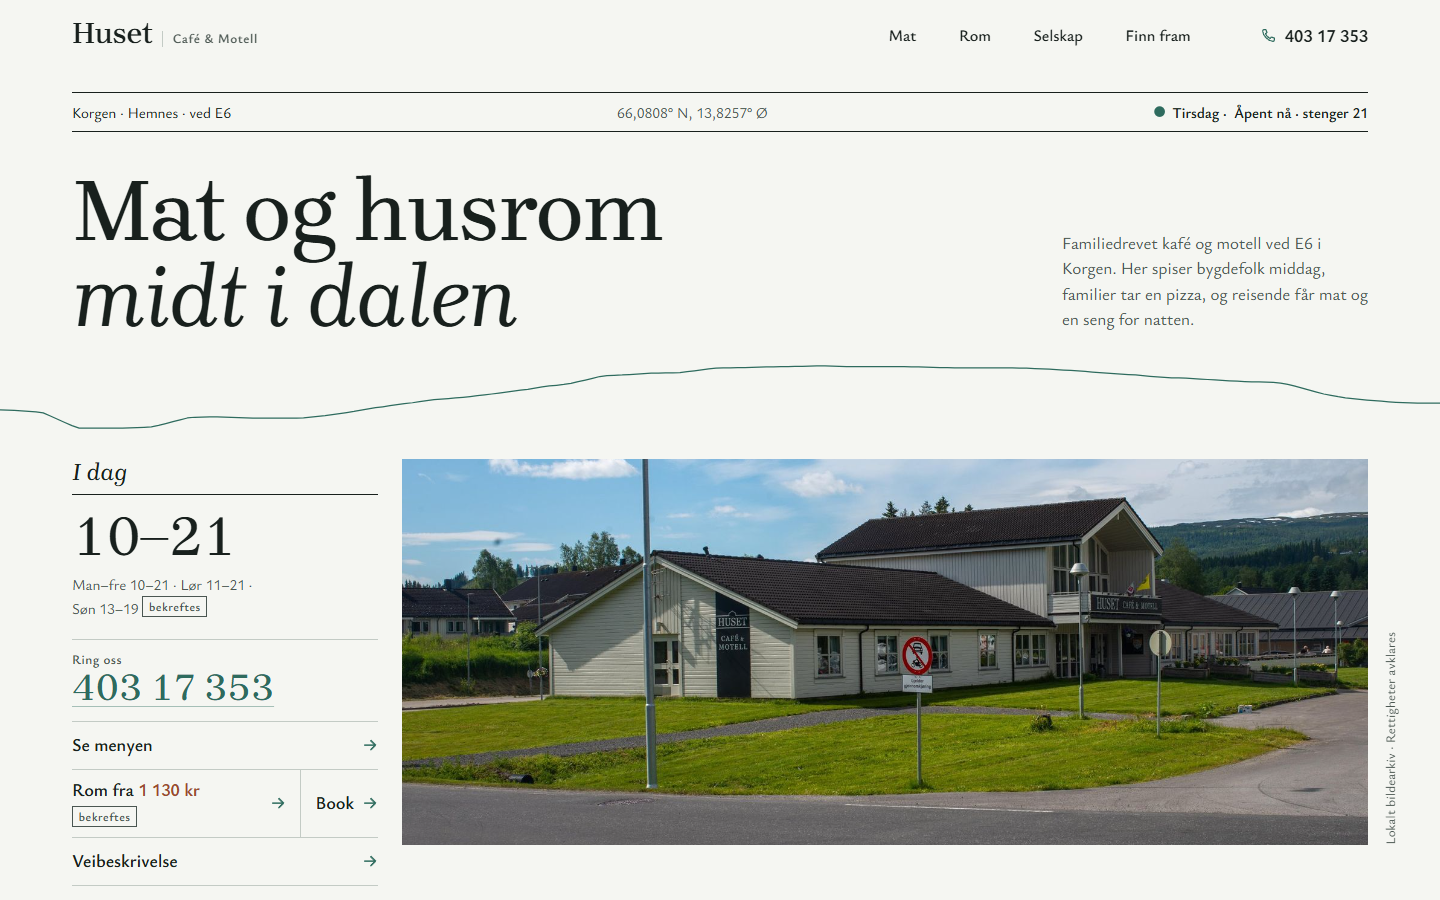
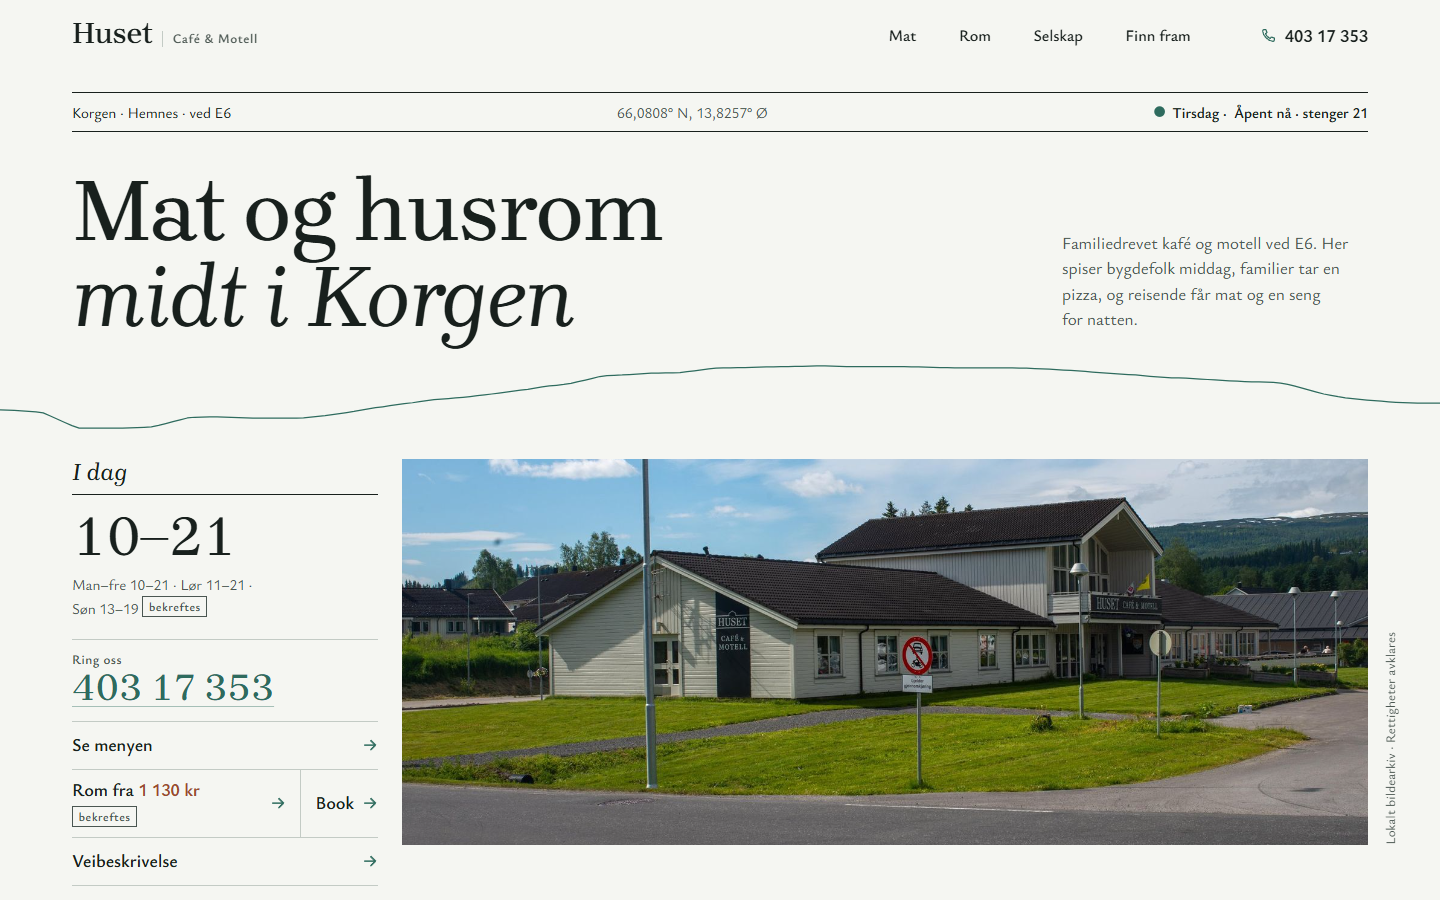
Call the place Korgen, not «dalen»
Locals never call Korgen «dalen». Replace it in concept A's headline,
section heading and copy, concept C's landscape copy, the concept name
(now «Huset i Korgen»), alt texts and the A brief, and record the rule
in PRODUCT.md. Review screenshots recaptured.

Copilot-Session: bb98ac28-2698-4a9c-a113-55c8e110cf17

Changed region(s): [[0.7188, 0.2489, 0.9375, 0.3733], [0.2188, 0.28, 0.4062, 0.4044]]

diff --git a/redesign/src/data/credits.ts b/redesign/src/data/credits.ts
@@ -170,7 +170,7 @@ const list: Photo[] = [
   },
   {
     id: 'korgen-1950s-a', w: 3612, h: 2350, widths: [2400, 1600, 800],
-    alt: 'Svart-hvitt-fotografi av Korgen og dalen, med gårder, jorder og elva i bunnen av dalen.',
+    alt: 'Svart-hvitt-fotografi av Korgen, med gårder og jorder ned mot elva.',
     caption: 'Korgen før 1955',
     credit: 'Ukjent fotograf, Nasjonalbiblioteket', license: 'Fri (public domain)',
     sourceUrl: C + 'Korgen_-_no-nb_digifoto_20150203_00005_NB_MIT_FNR_15581_A.jpg', status: 'fri',
@@ -199,7 +199,7 @@ const list: Photo[] = [
   },
   {
     id: 'korgfjellet-roadside', w: 2592, h: 1944, widths: [2400, 1600, 800],
-    alt: 'Grusskulder ved veien over Korgfjellet, med utsikt over dalen, et vann og blå fjell i kveldssol.',
+    alt: 'Grusskulder ved veien over Korgfjellet, med utsikt over et vann og blå fjell i kveldssol.',
     caption: 'Ved veien over Korgfjellet, juni 2009',
     credit: 'Ranværing', license: 'CC BY-SA 4.0', licenseUrl: BY_SA_4,
     sourceUrl: C + 'Korgfjellet_20090624_DSCN5428.jpg', status: 'lisensiert',

diff --git a/.impeccable/surfaces/redesign-src-pages-concepts-a-index-astro.md b/.impeccable/surfaces/redesign-src-pages-concepts-a-index-astro.md
@@ -5,12 +5,12 @@ primary_target: "redesign/src/pages/concepts/a/index.astro"
 related_targets: ["redesign/src/pages/concepts/a/meny.astro","redesign/src/pages/concepts/a/skjerm.astro","redesign/src/pages/concepts/a/om.astro"]
 ---
 
-# Konsept A — «Huset i dalen»
+# Konsept A — «Huset i Korgen»
 
 **Scope:** design-exploration prototype, concept A of three. Homepage (desktop + mobile), `/concepts/a/meny` (representative menu view), `/concepts/a/skjerm` (one 16:9 menu-board sample, 1920×1080), `/concepts/a/om` (design rationale, credits, placeholders). Not production: no CMS, no deploy.
 **Mode:** Persuade (homepage). `/meny` is Read inside a Persuade world; `/skjerm` is signage read at 3–5 m.
 **Audience:** locals checking menu, prices and hours; E6 travellers deciding to stop; motel guests; Helgeland visitors; groups and businesses.
-**Job:** show that Huset is a real, warm, family-run house in a remarkable valley, and answer the practical questions (open now? what's on the menu? a room tonight? how do I get there?) at once.
+**Job:** show that Huset is a real, warm, family-run house in remarkable surroundings, and answer the practical questions (open now? what's on the menu? a room tonight? how do I get there?) at once.
 **Action:** see the menu; call 403 17 353 or book a room via Booking.com; get directions. Live opening status in the masthead.
 **Proof:** the real white building; the real Korgen skyline; the real menu with prices; 8 rooms with breakfast (bekreftes); Korgen photographed 1947–49 and in 2008.
 **Constraints:** Norwegian Bokmål; no invented facts; visible «bekreftes» markers on unconfirmed facts; photo credits visible; placeholders labelled; WCAG 2.2 AA; restrained motion honouring reduced motion. Shared data in `src/data`, a separate visual system in `src/concepts/a`.
@@ -20,13 +20,13 @@ related_targets: ["redesign/src/pages/concepts/a/meny.astro","redesign/src/pages
 
 ## Direction contract
 
-THESIS: Huset as the valley's almanac, an editorial page where the white house sits under Korgen's own skyline. It refuses the photo-hero-plus-three-cards restaurant template and every card grid.
+THESIS: Huset as Korgen's almanac, an editorial page where the white house sits under Korgen's own skyline. It refuses the photo-hero-plus-three-cards restaurant template and every card grid.
 
 OWN-WORLD: grounds of cool whitewash #F5F6F2 and fog #E4E8E3. Spruce #1E3A32 owns whole regions (the menu spread, «Finn fram»). Ink #18201D. River green #2E6B5E for the skyline line and links. Copper #9A4A2C only on prices and active rules. Type is Brygada 1918 for display (italic for emphasis) and Ysabeau Office for text. Hairline rules, dot leaders, rotated photo credits along image edges; no radius, no shadows.
 
-STORY: the visitor sees a real house in a real valley and believes it is warm and honest. Then they read the menu, book a room or find the way.
+STORY: the visitor sees a real house in a real place and believes it is warm and honest. Then they read the menu, book a room or find the way.
 
-FIRST VIEWPORT: a masthead dateline carrying the live open status. Below it, the H1 «Mat og husrom midt i dalen» across 9 columns at about 5.5rem, with the skyline rule full width beneath. Under the rule, a 3-column «I dag» action column (hours, Ring, Meny, Veibeskrivelse) beside a 9-column crop of the white facade.
+FIRST VIEWPORT: a masthead dateline carrying the live open status. Below it, the H1 «Mat og husrom midt i Korgen» across 9 columns at about 5.5rem, with the skyline rule full width beneath. Under the rule, a 3-column «I dag» action column (hours, Ring, Meny, Veibeskrivelse) beside a 9-column crop of the white facade.
 
 FORM: an asymmetric 12-column editorial spread, position 1 on the ordered list. Signature: the skyline rule draws on load and redraws at each section divider, fully drawn under reduced motion. A then-and-now pairing sets Korgen 1947–49 against Korgen 2008. seed: not rolled. The brief pins this direction by name, and a brief-pinned direction beats the roll, so concept-seed was deliberately skipped and its mode rules were read from the mode file instead.
 

diff --git a/PRODUCT.md b/PRODUCT.md
@@ -24,7 +24,7 @@ Huset Café & Motell is a family-owned roadside restaurant and motel in Korgen, 
 
 ## Positioning
 
-A real, approachable place in a white building beside the E6, where locals eat, families visit, motorists stop and travellers sleep. Its setting is remarkable (Okstindan, Korgfjellet, Røssåga and the Korgen valley); its hospitality is everyday and human. The site celebrates that contrast. It is not a luxury resort, a mountain lodge or a generic Scandinavian boutique hotel.
+A real, approachable place in a white building beside the E6, where locals eat, families visit, motorists stop and travellers sleep. Its setting is remarkable (Okstindan, Korgfjellet, Røssåga and Korgen itself); its hospitality is everyday and human. The site celebrates that contrast. It is not a luxury resort, a mountain lodge or a generic Scandinavian boutique hotel.
 
 ## Operating Context
 
@@ -36,6 +36,7 @@ A real, approachable place in a white building beside the E6, where locals eat, 
 ## Capabilities and Constraints
 
 - Primary language: Norwegian Bokmål. English is secondary.
+- Call the place **Korgen**. Nobody there calls it «dalen», so copy never says «i dalen», «Dalen» or «the valley».
 - Facts from the live site, to be shown **marked as unverified ("bekreftes")** until the owners confirm them:
   - Opening hours: Mon–Fri 10–21, Sat 11–21, Sun 13–19.
   - 8 rooms, breakfast included, from NOK 1 130 (English copy says 1 139; discrepancy unresolved).
@@ -66,7 +67,7 @@ A real, approachable place in a white building beside the E6, where locals eat, 
 
 1. **Practical first.** Open now?, menu, directions and rooms are always one tap away.
 2. **Real place, real people.** Show the actual building, rooms and food; label anything that is not.
-3. **The landscape is context, not costume.** Okstindan and the valley frame the everyday; they never turn Huset into a lodge.
+3. **The landscape is context, not costume.** Okstindan, Korgfjellet and Røssåga frame the everyday; they never turn Huset into a lodge.
 4. **One menu, everywhere.** The website and the in-restaurant screens read from the same structured data.
 5. **Honest facts.** Unverified facts are marked until the owners confirm them.
 
